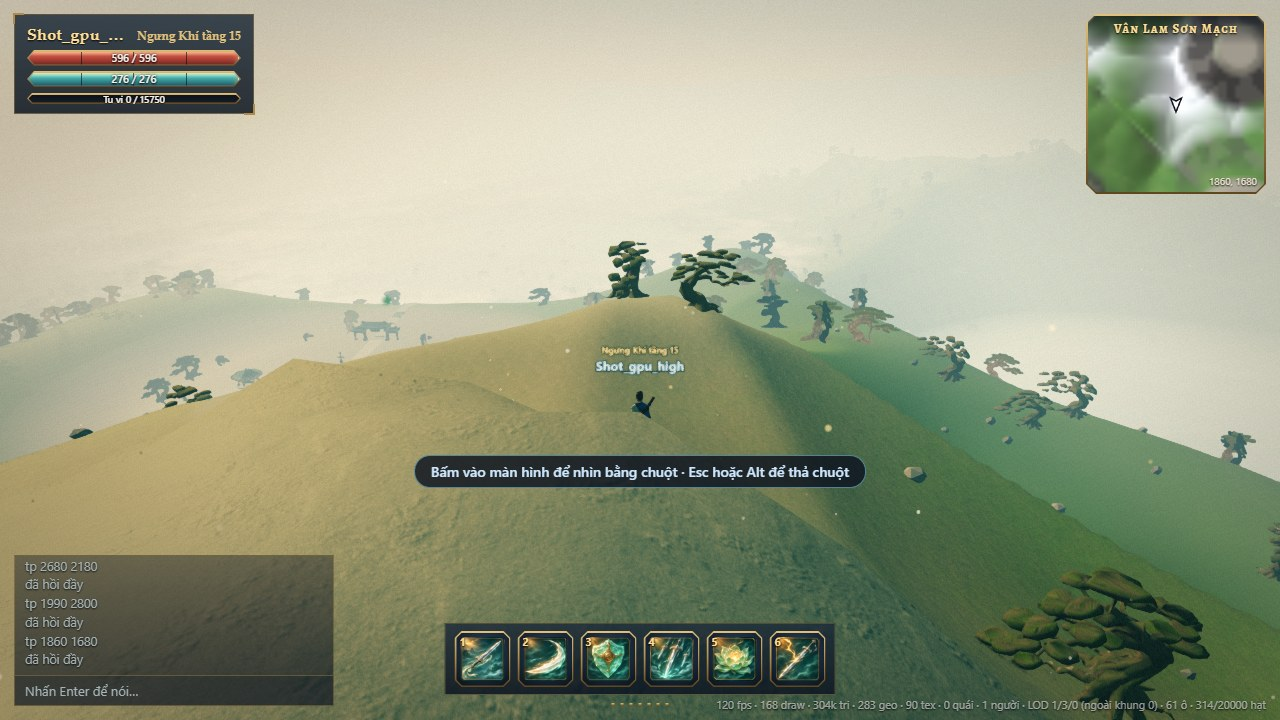
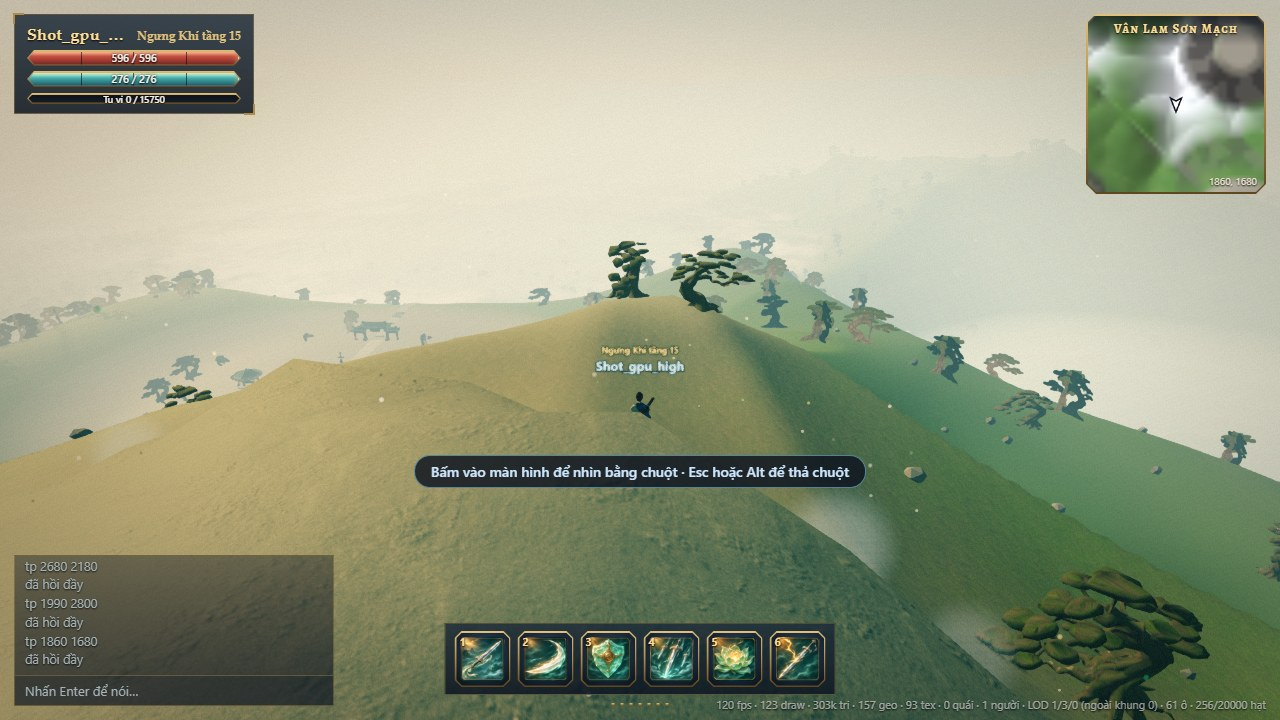
perf(client): cây xa cắt theo từng cây trong shader, bỏ mesh ô con impostor; bench --query/--points
Hồi quy CPU Cao/rừng do ô biên giữa vùng 3D và impostor vẽ thành tới ~16 mesh ô con mỗi siêu ô (draw 207 → 153).
Impostor chỉ còn siêu ô 512 m, bỏ cây gần hơn TREE_START bằng alpha trong shader (aPos + uniform camera); pool 3D chọn
cây theo khoảng cách của chính cây nên khớp chính xác, không chồng/hở.

diff --git a/apps/client/src/game/treeImpostor.ts b/apps/client/src/game/treeImpostor.ts
@@ -1,5 +1,5 @@
 import * as THREE from 'three/webgpu';
-import { attribute, texture, uv, vec2 } from 'three/tsl';
+import { attribute, length, step, texture, uniform, uv, vec2, vec4 } from 'three/tsl';
 import { createWorldMaterial } from '../render/materials/world';
 import { withSightFade } from './occlusion';
 import { assetBaseUrl } from './assets';
@@ -12,9 +12,7 @@ import type { PropInstance } from './propScatter';
  * 128 m quyết định (cùng lưới với `PropLayer`: ô nào PropLayer ẩn mesh 3D thì ô đó hiện impostor, không chồng, không hở).
  * Để ít draw call, vùng hoàn toàn ở xa gộp thành siêu ô 512 m (một mesh); ô biên giữa gần/xa vẽ từng ô 128 m.
  */
-export const CHUNK = 128;
-const SUPER = 4; // ô/cạnh siêu ô
-const SUPER_SIZE = CHUNK * SUPER;
+const SUPER_SIZE = 512;
 
 interface Group {
   items: PropInstance[];
@@ -53,7 +51,8 @@ function crossQuads(): THREE.BufferGeometry {
 
 export class ImpostorLayer {
   readonly group = new THREE.Group();
-  private chunks = new Map<string, Group>();
+  private uCam = uniform(new THREE.Vector2());
+  private uStart = uniform(0);
   private supers = new Map<string, Group>();
   private material: THREE.MeshStandardNodeMaterial | null = null;
   private tex: THREE.Texture | null = null;
@@ -66,9 +65,6 @@ export class ImpostorLayer {
     this.group.name = 'tree-impostors';
     for (const p of instances) {
       if (!(p.id in SPECIES)) continue;
-      const cx = Math.floor(p.x / CHUNK);
-      const cz = Math.floor(p.z / CHUNK);
-      this.add(this.chunks, `${cx}|${cz}`, p, cx * CHUNK, cz * CHUNK, CHUNK);
       const sx = Math.floor(p.x / SUPER_SIZE);
       const sz = Math.floor(p.z / SUPER_SIZE);
       this.add(this.supers, `${sx}|${sz}`, p, sx * SUPER_SIZE, sz * SUPER_SIZE, SUPER_SIZE);
@@ -100,7 +96,9 @@ export class ImpostorLayer {
         this.tex = t;
         const row = attribute('aRow', 'float');
         const m = createWorldMaterial({ side: THREE.DoubleSide, alphaTest: 0.42, roughness: 1 });
-        m.colorNode = texture(t, vec2(uv().x, uv().y.add(row).div(atlas.rows)));
+        const tex = texture(t, vec2(uv().x, uv().y.add(row).div(atlas.rows)));
+        const dist = length(attribute('aPos', 'vec2').sub(this.uCam));
+        m.colorNode = vec4(tex.rgb, tex.a.mul(step(this.uStart, dist)));
         this.material = withSightFade(m);
       },
       undefined,
@@ -118,6 +116,7 @@ export class ImpostorLayer {
     const mat = new Float32Array(n * 16);
     const col = new Float32Array(n * 3);
     const row = new Float32Array(n);
+    const pos = new Float32Array(n * 2);
     for (let i = 0; i < n; i++) {
       const p = g.items[Math.min(i, g.items.length - 1)];
       const sp = SPECIES[p.id];
@@ -131,9 +130,12 @@ export class ImpostorLayer {
       col[i * 3 + 1] = t[1];
       col[i * 3 + 2] = t[2];
       row[i] = atlas.rows - 1 - sp.row;
+      pos[i * 2] = p.x;
+      pos[i * 2 + 1] = p.z;
     }
     const geo = this.geometry.clone();
     geo.setAttribute('aRow', new THREE.InstancedBufferAttribute(row, 1));
+    geo.setAttribute('aPos', new THREE.InstancedBufferAttribute(pos, 2));
     const im = new THREE.InstancedMesh(geo, this.material as THREE.Material, n);
     im.instanceMatrix = new THREE.InstancedBufferAttribute(mat, 16);
     im.instanceColor = new THREE.InstancedBufferAttribute(col, 3);
@@ -162,48 +164,28 @@ export class ImpostorLayer {
   }
 
   /**
-   * `start`: ô 128 m có tâm cách camera < start là ô 3D (không hiện impostor); `range`: xa hơn thì bỏ. `forceNear`: mesh 3D
+   * Mỗi siêu ô là một mesh; cây gần hơn `start` (khoảng cách của chính cây, tính trong shader) bị bỏ ở mức điểm ảnh, khớp
+   * quy tắc chọn cây 3D của `PropLayer` nên không chồng, không hở. `range`: siêu ô xa hơn thì không vẽ. `forceNear`: mesh 3D
    * chưa nạp xong thì hiện impostor cả ở gần để không hở cây.
    */
   update(camX: number, camZ: number, start: number, range: number, forceNear: boolean): void {
     if (!this.loading) this.loadTexture();
     if (!this.material) return;
     this.visible = 0;
-    const near = forceNear ? -1 : start;
+    this.uCam.value.set(camX, camZ);
+    this.uStart.value = forceNear ? 0 : start;
     for (const sg of this.supers.values()) {
       const d = ImpostorLayer.dist(sg, camX, camZ);
-      if (d >= range) {
-        this.show(sg, false);
-        this.eachChild(sg, (c) => this.show(c, false));
-      } else if (d >= near) {
-        // Cả siêu ô ở xa: một mesh, tắt mọi ô con (tâm ô con ≥ khoảng cách hộp ≥ near).
-        this.show(sg, true);
-        this.eachChild(sg, (c) => this.show(c, false));
-      } else {
-        this.show(sg, false);
-        this.eachChild(sg, (c) => {
-          const dc = Math.hypot(c.x0 + CHUNK / 2 - camX, c.z0 + CHUNK / 2 - camZ);
-          this.show(c, dc >= near && dc < range);
-        });
-      }
-    }
-  }
-
-  private eachChild(sg: Group, fn: (c: Group) => void): void {
-    const sx = Math.floor(sg.x0 / SUPER_SIZE) * SUPER;
-    const sz = Math.floor(sg.z0 / SUPER_SIZE) * SUPER;
-    for (let j = 0; j < SUPER; j++) {
-      for (let i = 0; i < SUPER; i++) {
-        const c = this.chunks.get(`${sx + i}|${sz + j}`);
-        if (c) fn(c);
-      }
+      // Xa quá tầm, hoặc nằm trọn trong vùng 3D (góc xa nhất vẫn gần hơn `start`): không có điểm ảnh nào cần vẽ.
+      const far = Math.hypot(Math.max(camX - sg.x0, sg.x1 - camX), Math.max(camZ - sg.z0, sg.z1 - camZ));
+      this.show(sg, d < range && (forceNear || far >= start));
     }
   }
 
   dispose(): void {
     this.disposed = true;
     this.group.removeFromParent();
-    for (const g of [...this.chunks.values(), ...this.supers.values()]) {
+    for (const g of this.supers.values()) {
       if (g.mesh) {
         g.mesh.geometry.dispose();
         g.mesh.dispose();
@@ -212,7 +194,6 @@ export class ImpostorLayer {
     this.geometry.dispose();
     this.material?.dispose();
     this.tex?.dispose();
-    this.chunks.clear();
     this.supers.clear();
   }
 }

diff --git a/tools/perf/src/bench.ts b/tools/perf/src/bench.ts
@@ -41,6 +41,9 @@ const SECONDS = Number(opt('--seconds', '8'));
 const [VW, VH] = opt('--size', '1280x720').split('x').map(Number);
 const CHANNEL = opt('--channel', process.env.BENCH_CHANNEL ?? 'chrome');
 const HEADED = args.includes('--headed');
+/** `--query a=b&c=d`: thêm vào URL game (A/B cờ kiểm thử). `--points rung,ho`: chỉ đo các điểm này. */
+const EXTRA_QUERY = opt('--query', '');
+const ONLY_POINTS = opt('--points', '').split(',').filter(Boolean);
 /** devicePixelRatio giả lập; engine lấy min(dpr, pixelRatio của preset) nên dpr 1 làm các preset chỉ khác hậu kỳ/bóng. */
 const DPR = Number(opt('--dpr', '1'));
 const PORT = Number(process.env.PORT ?? 2635);
@@ -222,7 +225,7 @@ async function runOne(browser: Browser, renderer: 'webgpu' | 'webgl2', preset: s
   // tsx (esbuild keepNames) chèn helper `__name` vào hàm đã biên dịch; trang không có helper này nên tạo shim.
   await ctx.addInitScript({ content: `globalThis.__name ??= (f) => f; (${initScript.toString()})(${JSON.stringify(preset)});` });
   const name = `Bench_${renderer === 'webgpu' ? 'gpu' : 'gl'}_${preset}`.slice(0, 14);
-  const url = `http://localhost:${CLIENT_PORT}/?mute=1&debug=1&cine=0&auto=${encodeURIComponent(name)}${renderer === 'webgl2' ? '&renderer=webgl2' : ''}`;
+  const url = `http://localhost:${CLIENT_PORT}/?mute=1&debug=1&cine=0&auto=${encodeURIComponent(name)}${renderer === 'webgl2' ? '&renderer=webgl2' : ''}${EXTRA_QUERY ? '&' + EXTRA_QUERY : ''}`;
   const t0 = Date.now();
   try {
     await page.goto(url, { waitUntil: 'load', timeout: 120_000 });
@@ -252,7 +255,7 @@ async function runOne(browser: Browser, renderer: 'webgpu' | 'webgl2', preset: s
     });
     await gm(page, 'level 15');
     const points: Point[] = [];
-    for (const wp of WAYPOINTS) {
+    for (const wp of WAYPOINTS.filter((w) => !ONLY_POINTS.length || ONLY_POINTS.includes(w.name))) {
       await gm(page, `tp ${wp.x} ${wp.z}`);
       await gm(page, 'heal');
       // Chờ tới nơi và ô địa hình quanh đó nạp xong (số ô đứng yên 1,5 giây, tối thiểu 3 giây, tối đa 20 giây).

diff --git a/apps/client/src/game/props.ts b/apps/client/src/game/props.ts
@@ -290,8 +290,9 @@ export class PropLayer {
     for (const ch of this.treeChunks.values()) {
       const d = Math.hypot(ch.cx - camX, ch.cz - camZ);
       if (d >= start + LOAD_MARGIN) continue;
-      for (const id of ch.species) if (!this.ensureTemplate(id, ch.cx, ch.cz, true) && d < start) pending = true;
-      if (d < start) near.push(ch);
+      // Chọn theo từng cây (khoảng cách của chính cây < start); ô có tâm trong start + nửa đường chéo ô là ứng viên.
+      for (const id of ch.species) if (!this.ensureTemplate(id, ch.cx, ch.cz, true) && d < start + CHUNK * 0.71) pending = true;
+      if (d < start + CHUNK * 0.71) near.push(ch);
     }
     this.impostors?.update(camX, camZ, start, TREE_RANGE * scale, pending);
     this.lastX = camX;
@@ -310,6 +311,7 @@ export class PropLayer {
           if (!levels) continue;
           const cfg = PROP_CFG[p.id];
           const d = Math.hypot(p.x - camX, p.z - camZ);
+          if (d >= start) continue;
           const k = Math.min(d < cfg.lod[0] * scale ? 0 : d < cfg.lod[1] * scale ? 1 : 2, levels.length - 1);
           for (const sl of levels[k]) {
             const n = counts.get(sl) ?? 0;
